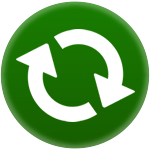
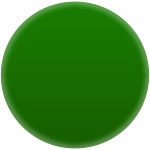
algumas coisas

Changed region(s): [[0.1067, 0.2667, 0.6667, 0.8267], [0.3467, 0.1867, 0.9067, 0.72]]

diff --git a/ProjetoFinal/AnimaCondSimples.m b/ProjetoFinal/AnimaCondSimples.m
@@ -13,35 +13,79 @@
 -(id)init{
     if(self = [super init]){
         SpriteCondicaoNode *teste = [[SpriteCondicaoNode alloc] initWithTipoDeCondicao:SE_SENAO];
-        [teste setPosition:CGPointMake(400, 300)];
+        [teste setPosition:CGPointMake(500, 300)];
         [self addChild:teste];
         [self inicializarlabels];
+        [self criarPontosParaAnimacao];
         [self setBackgroundColor:[SKColor whiteColor]];
     }
     
     return self;
 }
 
--(void)inicializarlabels{
-    CGPoint posicoes = CGPointMake(100, 540);
+-(void)criarPontosParaAnimacao{
+    pontos = [[NSMutableArray alloc] init];
+    CGPoint pontoInicial = CGPointMake(500, 400);
     
-    nota1 = [self criarLabelComTexto:@"float nota1 <-" posicao:posicoes];
+    for(int i=0; i<30; i++){
+        CGPoint novoPonto = pontoInicial;
+        
+        if(i < 10){
+            novoPonto = pontoInicial;
+            novoPonto.x -= 4;
+            novoPonto.y += 5;
+            
+            [pontos addObject:[NSValue valueWithCGPoint:novoPonto]];
+        
+        }else if(i >= 10 && i <15){
+            novoPonto = pontoInicial;
+            novoPonto.x -= 4;
+            novoPonto.y += 2;
+            
+            [pontos addObject:[NSValue valueWithCGPoint:novoPonto]];
+            
+        }else if(i >= 15 && i < 20){
+            novoPonto = pontoInicial;
+            novoPonto.x -= 4;
+            novoPonto.y -= 2;
+            
+            [pontos addObject:[NSValue valueWithCGPoint:novoPonto]];
+            
+        }else{
+            novoPonto = pontoInicial;
+            novoPonto.x -= 4;
+            novoPonto.y -= 5;
+            
+            [pontos addObject:[NSValue valueWithCGPoint:novoPonto]];
+        }
+        
+        pontoInicial = novoPonto;
+    }
+}
+
+-(void)inicializarlabels{
+    CGPoint posicoes = CGPointMake(50, 540);
+    
+    nota1 = [self criarLabelComTexto:@"nota1 <-" tipo:@"float" posicao:posicoes];
     [self addChild:nota1];
     
-    posicoes.y -= 25;
-    nota2 = [self criarLabelComTexto:@"float nota2 <-" posicao:posicoes];
+    posicoes.y -= 35;
+    nota2 = [self criarLabelComTexto:@"nota2 <-" tipo:@"float" posicao:posicoes];
     [self addChild:nota2];
     
-    posicoes.y -= 25;
-    media = [self criarLabelComTexto:@"float media <-" posicao:posicoes];
+    posicoes.y -= 35;
+    media = [self criarLabelComTexto:@"media <- (nota1 + nota2) / 2" tipo:@"float" posicao:posicoes];
     [self addChild:media];
 }
 
--(SKLabelNode*)criarLabelComTexto:(NSString*)texto posicao:(CGPoint)posicao{
-    SKLabelNode *novoLabel = [[SKLabelNode alloc] initWithFontNamed:@"Helvetica"];
-    [novoLabel setText:texto];
+
+-(SpriteLabelNode*)criarLabelComTexto:(NSString*)texto tipo:(NSString*)tipo posicao:(CGPoint)posicao{
+    SpriteLabelNode *novoLabel = [[SpriteLabelNode alloc] initWithType:tipo texto:texto];
+    [novoLabel setFontName:@"Helvetica"];
     [novoLabel setPosition:posicao];
-    [novoLabel setFontSize:20];
+    [novoLabel setFontSize:18];
+    [novoLabel showTipo];
+    [novoLabel setName:@"teste"];
     [novoLabel setFontColor:[SKColor blackColor]];
     [novoLabel setHorizontalAlignmentMode:SKLabelHorizontalAlignmentModeLeft];
     
@@ -50,12 +94,73 @@
 
 
 -(void)didMoveToView:(SKView *)view{
-    //CHAMA O METODO QUE CRIA OS TEXT FIELD
+    CGRect frame = CGRectMake(20, 75, 100, 30);
+    frame.origin.x += frame.size.width + 20;
+    int numLabels = 2;
+    
+    for(int i=0; i<numLabels; i++){
+        [self criarTextField:frame texto:@"5"];
+        
+        frame.origin.y -= 35;
+    }
+    
+}
+
+
+-(void)touchesBegan:(NSSet *)touches withEvent:(UIEvent *)event{
+    UITouch *touch = [touches anyObject];
+    CGPoint posicao = [touch locationInNode:self];
+    SKNode *node = [self nodeAtPoint:posicao];
+    
+    if([node.name isEqualToString:@"teste"]){
+        [self testes];
+    }
+}
+
+-(void)testes{
+    SKSpriteNode *teste = [[SKSpriteNode alloc] initWithImageNamed:@"atualizar-dados.png"];
+    [teste setSize:CGSizeMake(100, 100)];
+    [teste setSize:CGSizeMake(60, 60)];
+    [self addChild:teste];
+
+    
+    CGMutablePathRef path = CGPathCreateMutable();
+    if (pontos && pontos.count > 0) {
+        CGPoint p = [(NSValue *)[pontos objectAtIndex:0] CGPointValue];
+        CGPathMoveToPoint(path, nil, p.x, p.y);
+        for (int i = 1; i < pontos.count; i++) {
+            p = [(NSValue *)[pontos objectAtIndex:i] CGPointValue];
+            CGPathAddLineToPoint(path, nil, p.x, p.y);
+        }
+    }
+    
+    //CGPathRef circle = CGPathCreateWithEllipseInRect(CGRectMake(100,100,50,50), NULL);
+
+    SKAction *followTrack = [SKAction followPath:path asOffset:NO orientToPath:YES duration:5.0];
+    SKAction *forever = [SKAction repeatActionForever:followTrack];
+    [teste runAction:forever];
 }
 
 -(void)criarTextField:(CGRect)frame texto:(NSString*)texto{
     UITextField *textField = [[UITextField alloc] initWithFrame:frame];
-    [textField setText:texto];
+    textField.borderStyle = UITextBorderStyleRoundedRect;
+    textField.textColor = [UIColor blackColor];
+    textField.font = [UIFont systemFontOfSize:17.0];
+    textField.backgroundColor = [SKColor whiteColor];
+    textField.autocorrectionType = UITextAutocorrectionTypeYes;
+    textField.keyboardType = UIKeyboardTypeNumbersAndPunctuation;
+    textField.clearButtonMode = UITextFieldViewModeWhileEditing;
+    textField.delegate = self;
+    textField.text = texto;
+    
+    
+    [self.view addSubview:textField];
+}
+
+-(BOOL)textFieldShouldReturn:(UITextField *)textField{
+    [textField resignFirstResponder];
+
+    return YES;
 }
 
 @end

diff --git a/ProjetoFinal/OperadorValoresNode.m b/ProjetoFinal/OperadorValoresNode.m
@@ -73,21 +73,6 @@ static const int NUM_TEXTURAS = 11;
 }
 
 
--(void)inicializaAnimacaoDiminuir{
-    //CRIO TEXTURAS PARA TODAS OS SPRITES DA PARTE DE VALORES
-    NSMutableArray *vetorTexturas = [[NSMutableArray alloc] init];
-    
-    for(int i=1; i<=NUM_TEXTURAS; i++){
-        //OS SPRITES ESTÃO NUMERADOS, PORTANTO O CONTADOR DO LAÇO É UTILIZADO PARA GERAR TODOS OS SPRITES
-        SKTexture *textura = [SKTexture textureWithImageNamed:[NSString stringWithFormat:@"parte-valores%d.png", i]];
-        
-        [vetorTexturas addObject:textura];
-    }
-    
-    animacaoDiminuir = [SKAction animateWithTextures:vetorTexturas timePerFrame:0.04];
-}
-
-
 -(void)inicializaAnimacaoExpandir{
     //CRIO TEXTURAS PARA TODAS OS SPRITES DA PARTE DE VALORES EM ORDEM INVERSA (PARTE VALORES DIMINUINDO)
     NSMutableArray *vetorTexturas = [[NSMutableArray alloc] init];
@@ -100,6 +85,12 @@ static const int NUM_TEXTURAS = 11;
     }
     
     animacaoExpandir = [SKAction animateWithTextures:vetorTexturas timePerFrame:0.04];
+}
+
+
+-(void)inicializaAnimacaoDiminuir{
+    //CRIO UMA ANIMAÇAO REVERSA À DE EXPANDIR
+    animacaoDiminuir = [animacaoExpandir reversedAction];
 }
 
 

diff --git a/ProjetoFinal/AnimaOperadores.m b/ProjetoFinal/AnimaOperadores.m
@@ -54,12 +54,18 @@
 
 
 -(void)criarLabelAtualizar{
-    SKSpriteNode *atualizar = [[SKSpriteNode alloc] initWithImageNamed:@"atualizar-dados.png"];
+    atualizar = [[SKSpriteNode alloc] initWithImageNamed:@"atualizar-dados.png"];
     [atualizar setName:@"atualizar"];
     [atualizar setSize:CGSizeMake(80, 80)];
     [atualizar setPosition:CGPointMake(384, 300)];
     
     [self addChild:atualizar];
+    
+    SKSpriteNode *simbolo = [[SKSpriteNode alloc] initWithImageNamed:@"simbolo-atualizar.png"];
+    [simbolo setName:@"atualizar"];
+    [simbolo setSize:CGSizeMake(64, 50)];
+    
+    [atualizar addChild:simbolo];
 }
 
 
@@ -69,6 +75,11 @@
     SKNode *node = [self nodeAtPoint:posicao];
     
     if([node.name isEqualToString:@"atualizar"]){
+        //SPRITE QUE ATUALIZAR OS VALORES INICIA UMA ANIMAÇÃO DE ROTAÇÃO
+        SKAction *rotation = [SKAction rotateByAngle: -M_PI duration:0.2];
+        [[atualizar childNodeWithName:@"atualizar"] runAction:rotation];
+
+        
         [self atualizarValores];
     }
 }

diff --git a/ProjetoFinal/SpriteCaixaNode.m b/ProjetoFinal/SpriteCaixaNode.m
@@ -195,17 +195,8 @@ static const int NUM_TEXTURAS = 13;
 }
 
 -(void)inicializaAnimacaoFecharCaixa{
-    //CRIO TEXTURAS PARA TODAS OS SPRITES DA VARIAVEL EM ORDEM INVERSA (CAIXA FECHANDO)
-    NSMutableArray *vetorTexturas = [[NSMutableArray alloc] init];
-    
-    for(int i=NUM_TEXTURAS; i>=1; i--){
-        SKTexture *textura = [SKTexture textureWithImageNamed:[NSString stringWithFormat:@"abrir-caixa%d.png", i]];
-        
-        [vetorTexturas addObject:textura];
-    }
-    
-    //INSTANCIO A SKACTION COM O ARRAY DE TEXTURAS CRIADO
-    animacaoFechar = [SKAction animateWithTextures:vetorTexturas timePerFrame:0.05];
+    //CRIO UMA ANIMAÇÃO EM ORDEM INVERSA (CAIXA FECHANDO)
+    animacaoFechar = [animacaoAbrir reversedAction];
 }
 
 -(NSString *)retornaTipo{

diff --git a/ProjetoFinal/OperadorResultadoNode.m b/ProjetoFinal/OperadorResultadoNode.m
@@ -59,17 +59,8 @@ static const int NUM_TEXTURAS = 10;
 
 
 -(void)inicializaAnimacaoSubir{
-    //CRIO TEXTURAS PARA TODAS OS SPRITES DA PARTE DE RESULTADO 
-    NSMutableArray *vetorTexturas = [[NSMutableArray alloc] init];
-    
-    for(int i=1; i<=NUM_TEXTURAS; i++){
-        //OS SPRITES ESTÃO NUMERADOS, PORTANTO O CONTADOR DO LAÇO É UTILIZADO PARA GERAR TODOS OS SPRITES
-        SKTexture *textura = [SKTexture textureWithImageNamed:[NSString stringWithFormat:@"parte-resultado%d.png", i]];
-        
-        [vetorTexturas addObject:textura];
-    }
-    
-    animacaoSubir = [SKAction animateWithTextures:vetorTexturas timePerFrame:0.04];
+    //CRIO UMA ANIMAÇAO REVERSA À DE DESCER   
+    animacaoSubir = [animacaoDescer reversedAction];
 }
 
 

diff --git a/ProjetoFinal/SpriteLabelNode.m b/ProjetoFinal/SpriteLabelNode.m
@@ -31,6 +31,16 @@
 }
 
 
+-(void)showTipo{
+    lblTipo = [[SKLabelNode alloc] initWithFontNamed:@"Helvetica Bold"];
+    [lblTipo setText:self.tipo];
+    [lblTipo setFontColor:[SKColor colorWithRed:0.8 green:0.4 blue:0.2 alpha:1]];
+    [lblTipo setPosition:CGPointMake(self.position.x - 55, 0)];
+    [lblTipo setHorizontalAlignmentMode:SKLabelHorizontalAlignmentModeRight];
+    [lblTipo setFontSize:self.fontSize];
+    [self addChild:lblTipo];
+
+}
 
 
 @end

diff --git a/ProjetoFinal/AnimaCondSimples.h b/ProjetoFinal/AnimaCondSimples.h
@@ -8,12 +8,15 @@
 
 #import <SpriteKit/SpriteKit.h>
 #import "SpriteCondicaoNode.h"
+#import "SpriteLabelNode.h"
 
-@interface AnimaCondSimples : SKScene
+@interface AnimaCondSimples : SKScene <UITextFieldDelegate>
 {
-    SKLabelNode *nota1;
-    SKLabelNode *nota2;
-    SKLabelNode *media;
+    SpriteLabelNode *nota1;
+    SpriteLabelNode *nota2;
+    SpriteLabelNode *media;
+    
+    NSMutableArray *pontos;
 }
 
 @end

diff --git a/ProjetoFinal/SpriteLabelNode.h b/ProjetoFinal/SpriteLabelNode.h
@@ -12,10 +12,13 @@
 #import <SpriteKit/SpriteKit.h>
 
 @interface SpriteLabelNode : SKLabelNode
+{
+    SKLabelNode *lblTipo;
+}
 
 @property NSString *tipo;
 @property CGPoint posicaoInicial;
 
 - (id)initWithType:(NSString *)tipo texto:(NSString *)texto;
-
+-(void)showTipo;
 @end

diff --git a/ProjetoFinal/AnimaOperadores.h b/ProjetoFinal/AnimaOperadores.h
@@ -15,6 +15,7 @@
 @interface AnimaOperadores : SKScene
 {
     NSMutableArray *sprites;
+    SKSpriteNode *atualizar;
 }
 
 
